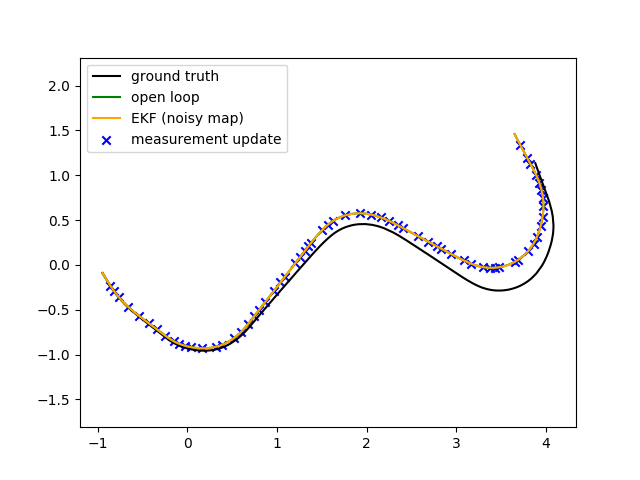
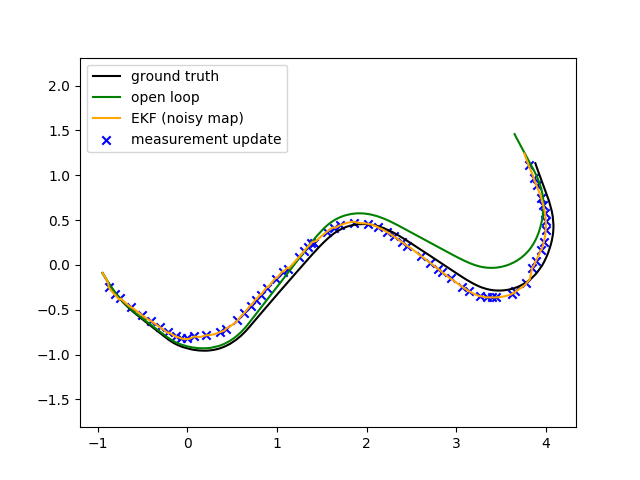
Fixed EKF SLAM issue

Changed region(s): [[0.2188, 0.2812, 0.875, 0.75], [0.1875, 0.625, 0.2188, 0.6562], [0.1562, 0.5938, 0.1875, 0.625]]

diff --git a/turtlebot_model.py b/turtlebot_model.py
@@ -93,22 +93,19 @@ def transform_line_to_scanner_frame(line, x, tf_base_to_camera, compute_jacobian
     # compute the min distance frame line to camera origin
     a, b, c = -np.cos(alpha_w), -np.sin(alpha_w), r_w
     r_c = a * c_x + b * c_y + c
-    # compute h
     h = np.array([alpha_c, r_c])
-    # compute H
-    dr_dxbw = a
-    dr_dybw = b
-    dcx_dthetabw = -sinth * x_cb - costh * y_cb
-    dcy_dthetabw = costh * x_cb - sinth * y_cb
-    dr_dtheta_bw = a * dcx_dthetabw + b * dcy_dthetabw
-    Hx = np.array([
-        [0, 0, -1],
-        [dr_dxbw, dr_dybw, dr_dtheta_bw]
-    ])
-    ########## Code ends here ##########
-    if not compute_jacobian:
-        return h
-    return h, Hx
+    if compute_jacobian:
+        dr_dxbw = a
+        dr_dybw = b
+        dcx_dthetabw = -sinth * x_cb - costh * y_cb
+        dcy_dthetabw = costh * x_cb - sinth * y_cb
+        dr_dtheta_bw = a * dcx_dthetabw + b * dcy_dthetabw
+        Hx = np.array([
+            [0, 0, -1],
+            [dr_dxbw, dr_dybw, dr_dtheta_bw]
+        ])
+        return h, Hx
+    return h
 
 
 def normalize_line_parameters(h, Hx=None):

diff --git a/ekf.py b/ekf.py
@@ -284,7 +284,7 @@ class EkfSlam(Ekf):
         ########## Code starts here ##########
         # TODO: Compute g, Gx, Gu.
         robot_pose = self.x[:3]
-        g_robot, Gx_robot, Gu_robot = tb.compute_dynamics(robot_pose, u, dt, compute_jacobians=True)
+        g_robot, Gx_robot, Gu_robot = tb.compute_dynamics(robot_pose, u, dt)
         g[:3] = g_robot
         Gx[:3, :3] = Gx_robot
         Gu[:3, :3] = Gu_robot
@@ -389,7 +389,8 @@ class EkfSlam(Ekf):
             alpha, r = self.x[idx_j:idx_j+2]
             # compute h and Hx
             Hx = np.zeros((2, self.x.size))
-            h, Hx_tb = tb.transform_line_to_scanner_frame((alpha, r), self.x[0:3], self.tf_base_to_camera)
+            h, Hx_robot = tb.transform_line_to_scanner_frame((alpha, r), self.x[0:3], self.tf_base_to_camera)
+            Hx[:, :3] = Hx_robot
             # First two map lines are assumed fixed so we don't want to propagate
             # any measurement correction to them.
             if j >= 2:
